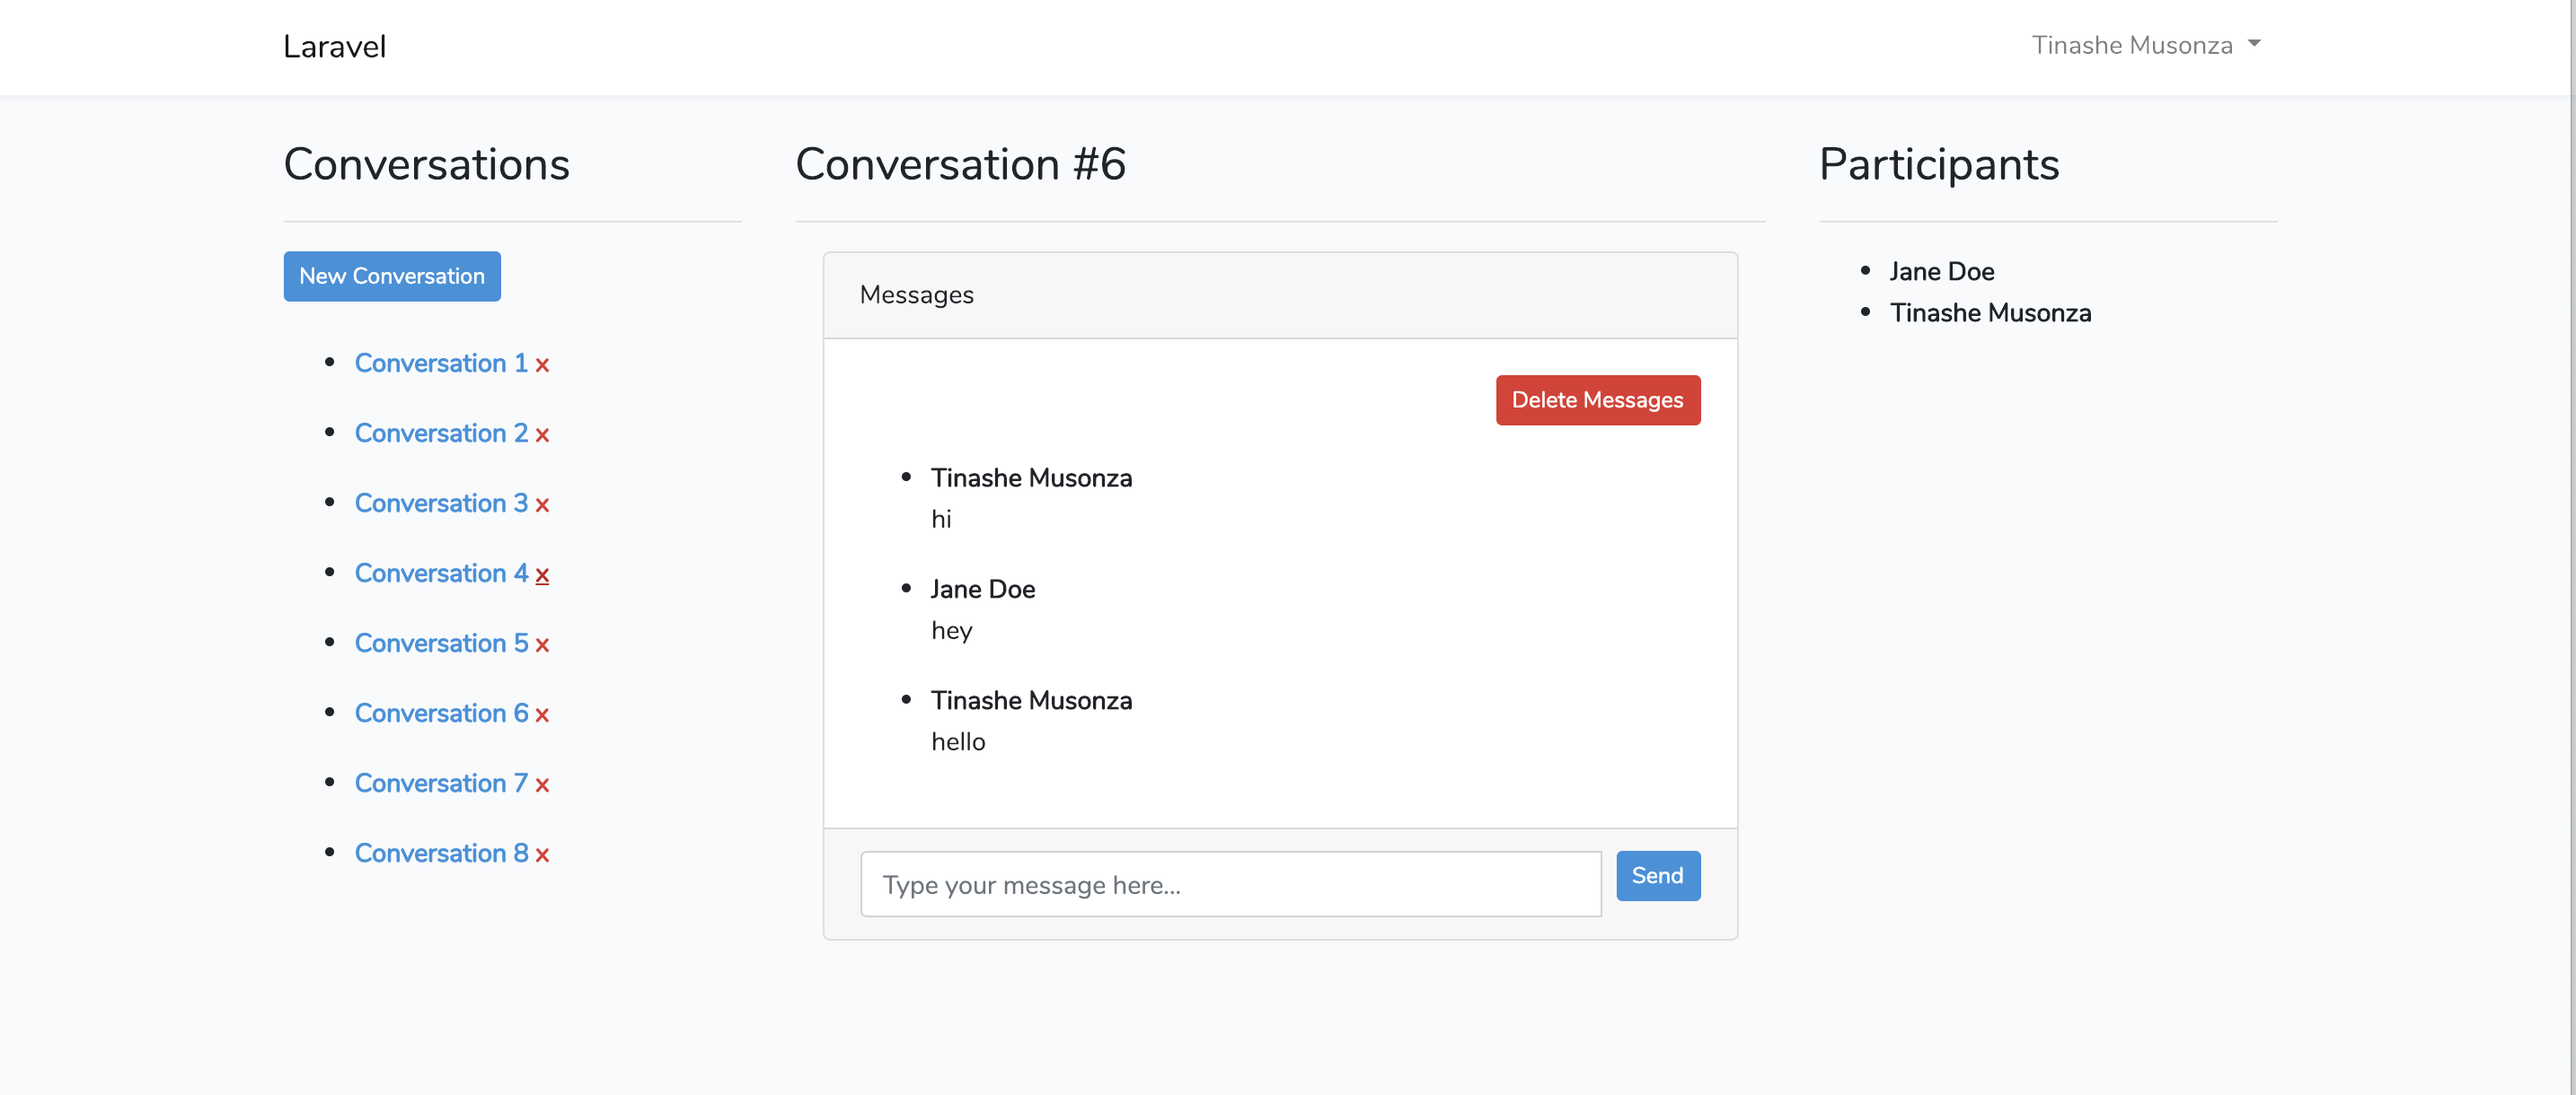
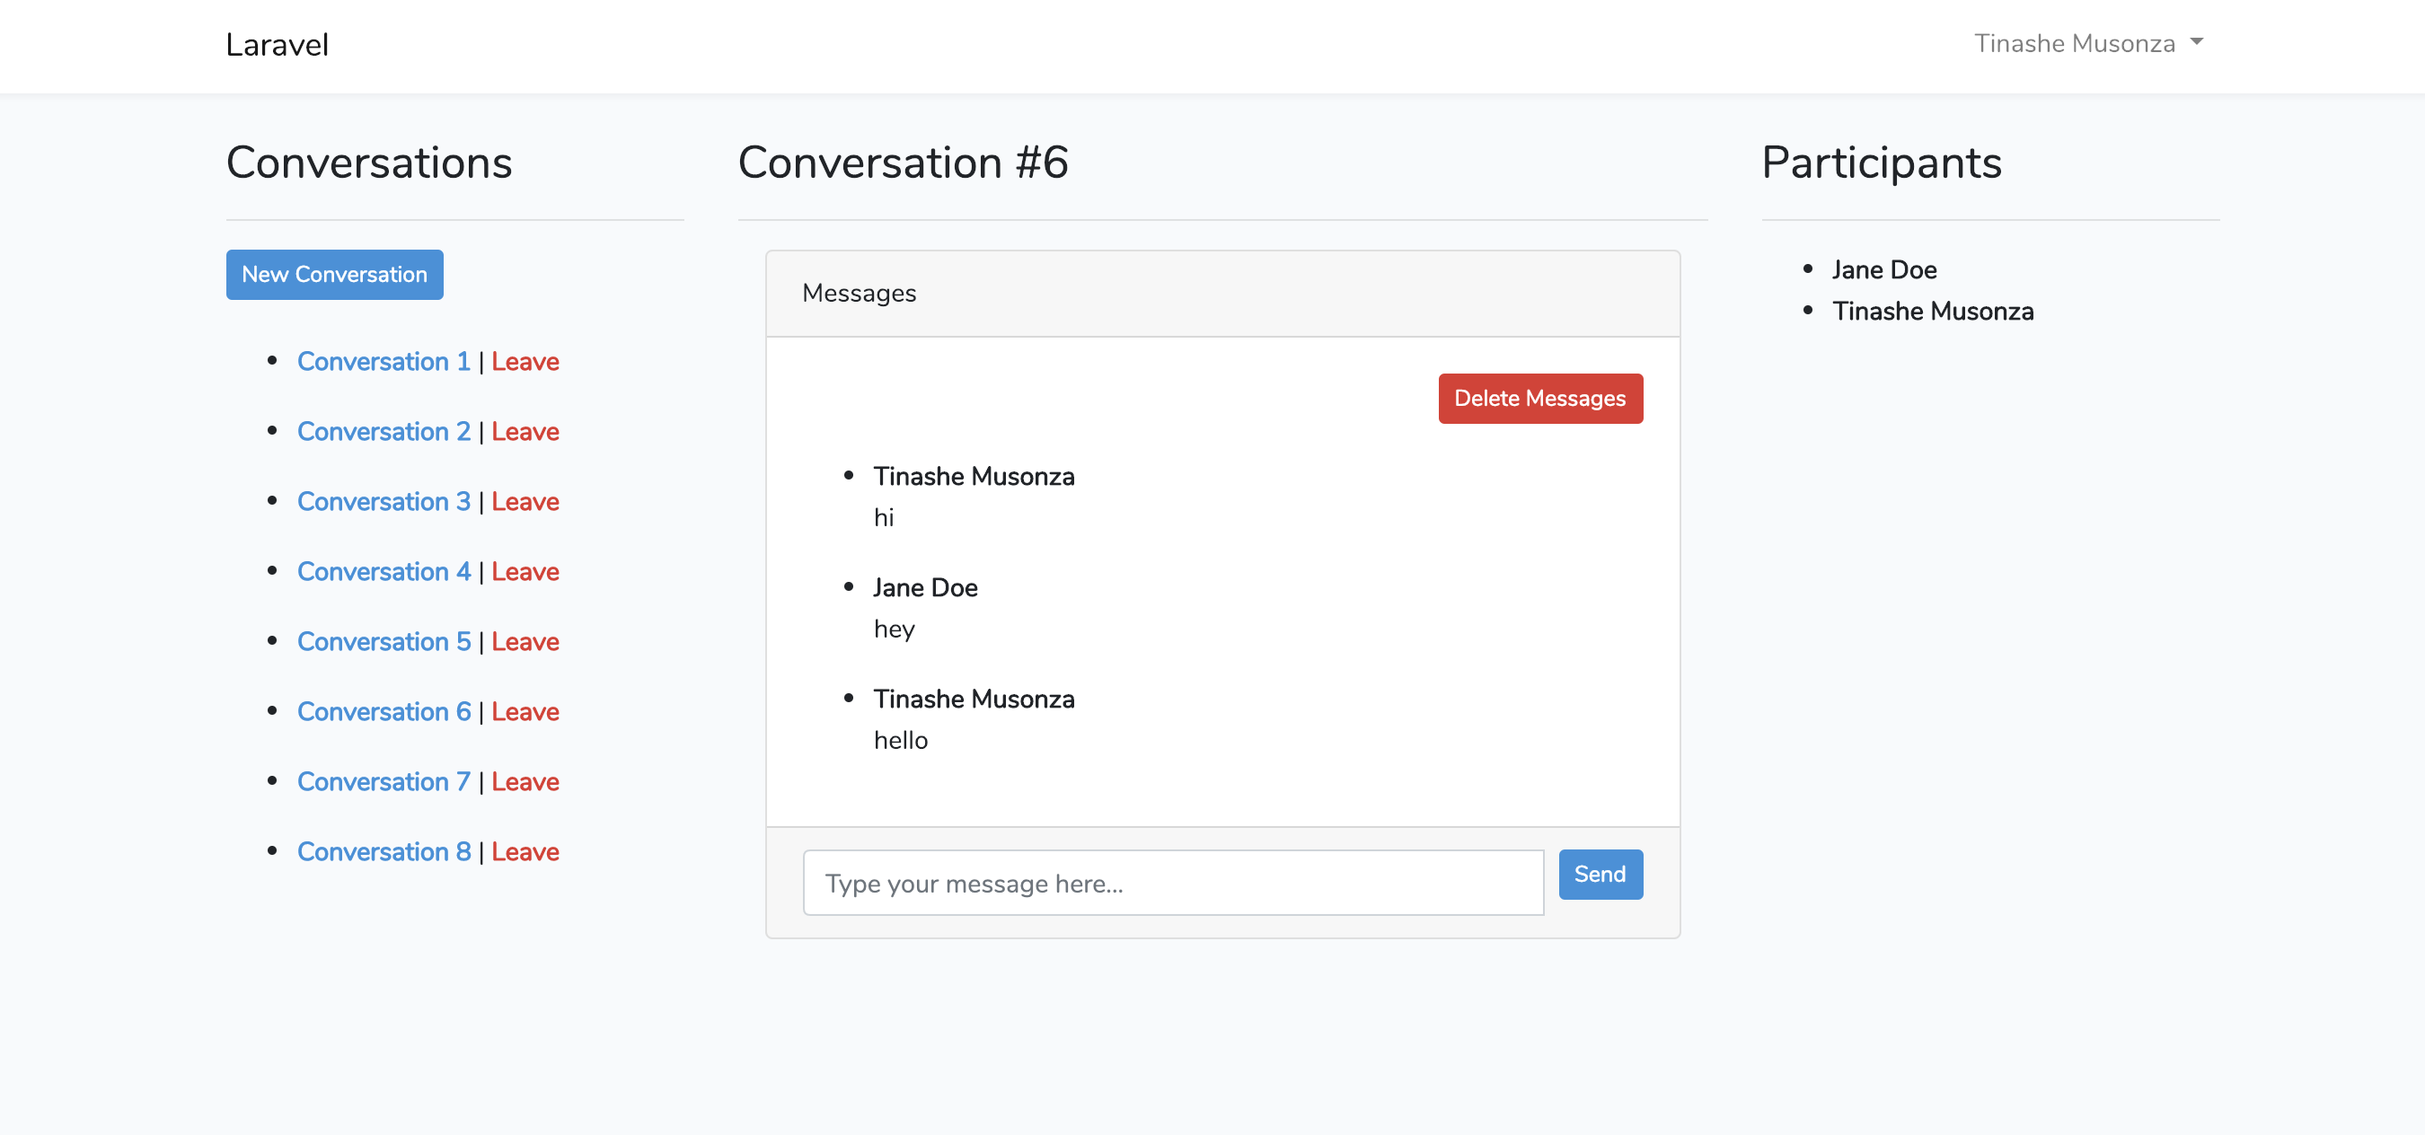
wip

diff --git a/resources/js/components/ChatConversations.vue b/resources/js/components/ChatConversations.vue
@@ -11,14 +11,14 @@
           <div class="header">
             <a href="#" @click="showConversation(convo.id)">
               <strong class="primary-font">Conversation {{ convo.id }}</strong>
-            </a>
+            </a> |
             <a
               href="#"
               class="text-danger"
               title="leave conversation"
               @click="leaveConversation(convo.id)"
             >
-              <strong>x</strong>
+              <strong>Leave</strong>
             </a>
           </div>
           <p></p>

diff --git a/public/js/app.js b/public/js/app.js
@@ -47670,7 +47670,7 @@ var render = function() {
                   ])
                 ]
               ),
-              _vm._v(" "),
+              _vm._v(" |\n            "),
               _c(
                 "a",
                 {
@@ -47682,7 +47682,7 @@ var render = function() {
                     }
                   }
                 },
-                [_c("strong", [_vm._v("x")])]
+                [_c("strong", [_vm._v("Leave")])]
               )
             ]),
             _vm._v(" "),
